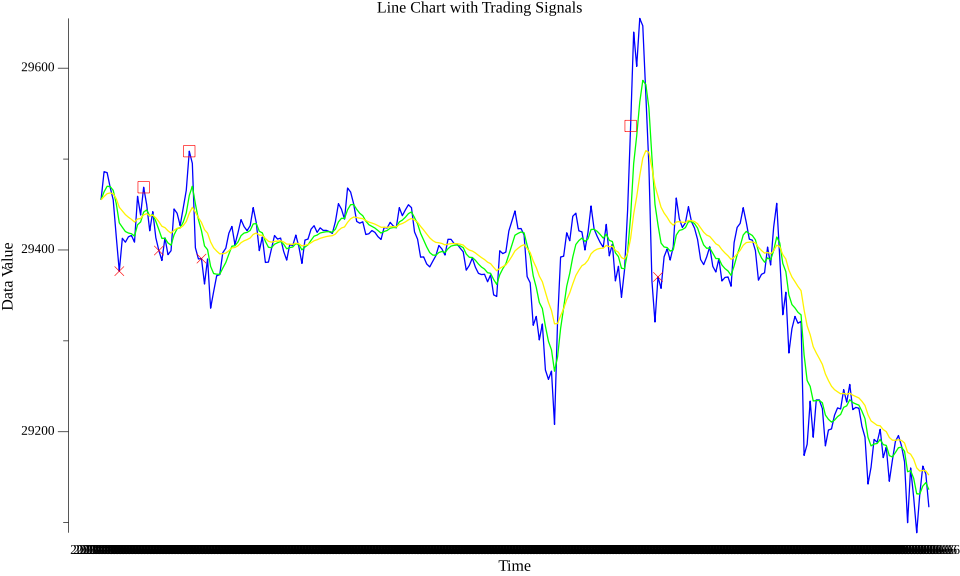
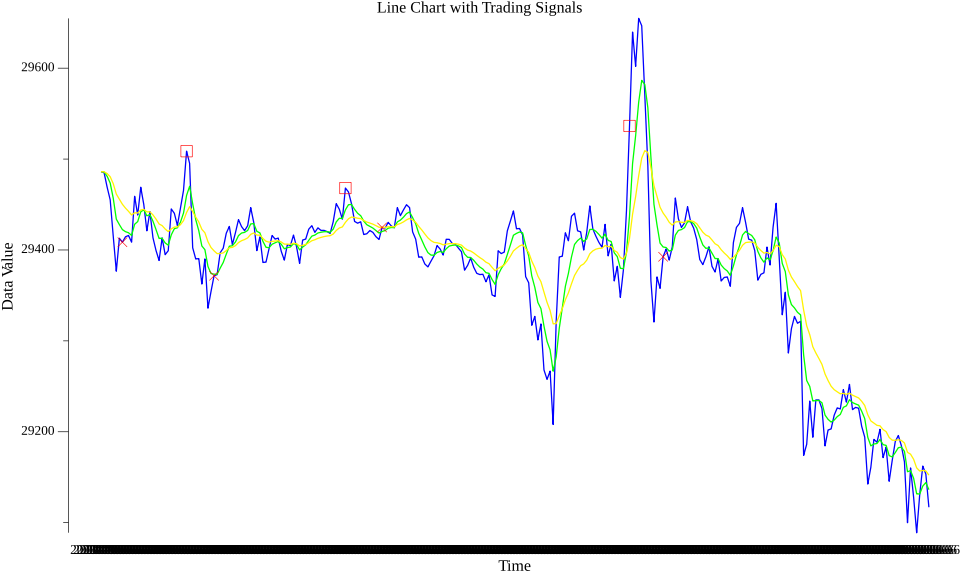
using diff strategy

Changed region(s): [[0.0938, 0.0312, 0.9375, 0.8125]]

diff --git a/strategies/strategies.go b/strategies/strategies.go
@@ -453,8 +453,12 @@ func (ts *TradingSystem) TechnicalAnalysis(md *model.AppData) (buySignal, sellSi
 				count++
 				ts.Container1 = shortEMA
 				ts.Container2 = longEMA
-				buySignal = buySignal || (shortEMA[ts.DataPoint-2] > longEMA[ts.DataPoint-2] && shortEMA[ts.DataPoint-1] < longEMA[ts.DataPoint-1] && shortEMA[ts.DataPoint] < longEMA[ts.DataPoint])
+				diff_1 := math.Abs(shortEMA[ts.DataPoint-1] - longEMA[ts.DataPoint-1])
+				diff := math.Abs(shortEMA[ts.DataPoint] - longEMA[ts.DataPoint])
+				buySignal = buySignal || (diff_1 > diff) && (shortEMA[ts.DataPoint] < longEMA[ts.DataPoint]) && (shortEMA[ts.DataPoint-1] < longEMA[ts.DataPoint-1])
 				sellSignal = sellSignal || (shortEMA[ts.DataPoint-2] < longEMA[ts.DataPoint-2] && shortEMA[ts.DataPoint-1] > longEMA[ts.DataPoint-1] && shortEMA[ts.DataPoint] > longEMA[ts.DataPoint])
+				// buySignal = buySignal || (shortEMA[ts.DataPoint-2] > longEMA[ts.DataPoint-2] && shortEMA[ts.DataPoint-1] < longEMA[ts.DataPoint-1] && shortEMA[ts.DataPoint] < longEMA[ts.DataPoint])
+				// sellSignal = sellSignal || (shortEMA[ts.DataPoint-2] < longEMA[ts.DataPoint-2] && shortEMA[ts.DataPoint-1] > longEMA[ts.DataPoint-1] && shortEMA[ts.DataPoint] > longEMA[ts.DataPoint])
 			}
 			if strings.Contains(md.Strategy, "RSI") && ts.DataPoint > 0 && ts.DataPoint <= len(rsi) {
 				count++
